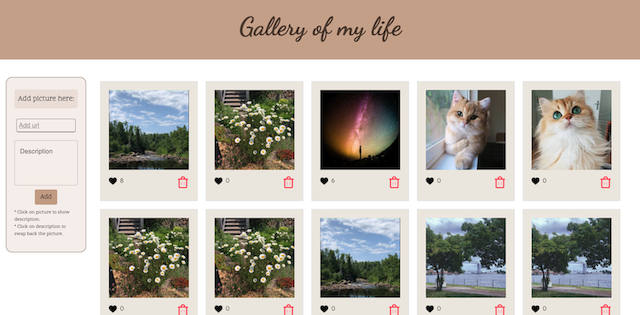
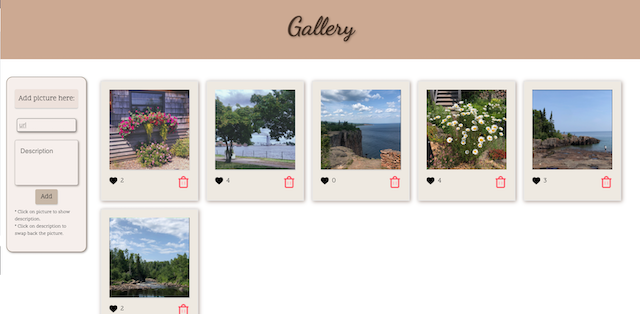
change title page

diff --git a/src/components/GalleryItem/GalleryItem.js b/src/components/GalleryItem/GalleryItem.js
@@ -97,26 +97,28 @@ class GalleryItem extends Component {
         }
         function mouseLeave(e) {
             e.target.style.boxShadow = '1px 2px 2px lightgray';
-
         }
 
         return (//return what we want to show in DOM
             <div className="picture-data">
-                <p className="description"
-                    onMouseEnter={mouseEnter}
-                    onMouseLeave={mouseLeave}
-                >
-                    {detailDescription}
-                    {picture}
+                <div>
+                    <p className="description"
+                        onMouseEnter={mouseEnter}
+                        onMouseLeave={mouseLeave}
+                    >
+                        {detailDescription}
+                        {picture}
 
-                </p>
+                    </p>
+                    
+                </div>
+
 
                 <div className="deleteBtn">
-                    <span className="icon-heart"
+                    <span
                         onClick={this.swal}
                     >
                         <img src="images/bin.png" width="30" height="30" ></img>
-
                     </span>
                 </div>
                 <div>
@@ -128,6 +130,7 @@ class GalleryItem extends Component {
                     >
                         <img src="images/heart.png" width="20" height="20" ></img>
                     </span>
+
                     <p className="countLike">
                         {this.props.pictureData.likes}
                     </p>

diff --git a/src/components/App/App.js b/src/components/App/App.js
@@ -25,10 +25,6 @@ class App extends Component {
     this.getPictureData();
   }
 
-  // mouseOver =() =>{
-  //   this.state.path
-  // }
-
 
   //using POST to allow user add new picture in DOM
   //I use Sweet Alert 2 to confirm if user successful add new picture
@@ -60,7 +56,6 @@ class App extends Component {
         onClose: () => {
           clearInterval(timerInterval)
         },
-
       }).then((result) => {
         /* Read more about handling dismissals below */
         if (result.dismiss === Swal.DismissReason.timer) {
@@ -161,7 +156,7 @@ class App extends Component {
 
       <div className="App">
         <header className="App-header">
-          <h1 className="App-title">Gallery of my life</h1>
+          <h1 className="App-title">Gallery</h1>
         </header>
         <br />
         <main>

diff --git a/src/components/GalleryForm/GalleryForm.js b/src/components/GalleryForm/GalleryForm.js
@@ -20,7 +20,6 @@ class GalleryForm extends Component {
           function mouseLeave(e) {
             e.target.style.background = '#c7b7a7';
             e.target.style.boxShadow = '1px 2px 2px lightgray';
-
           }
           
         return (
@@ -58,7 +57,6 @@ class GalleryForm extends Component {
                         className="add-btn btn"
                         onMouseEnter={mouseEnter}
                         onMouseLeave={mouseLeave}
-
                         >
                         Add
                         
